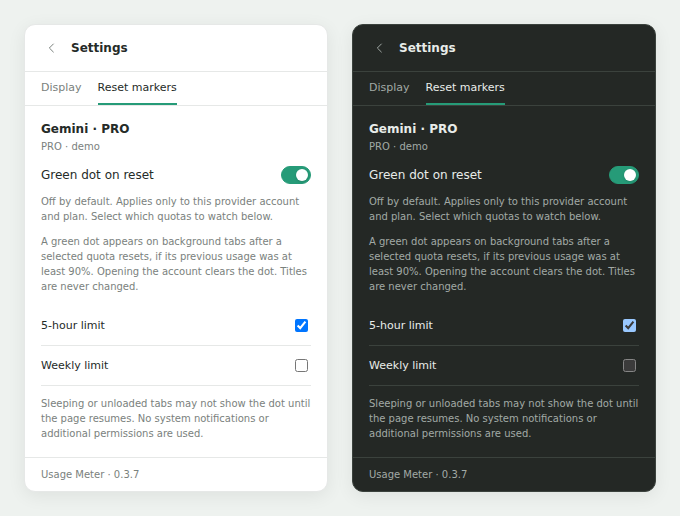
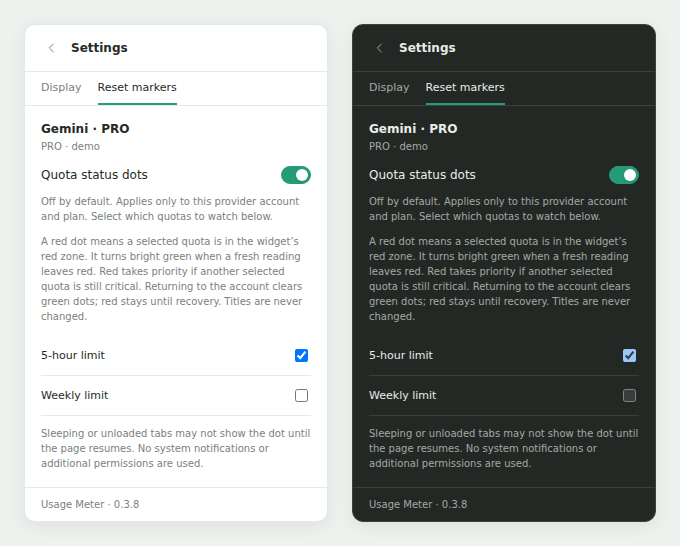
Use widget red-zone transitions for quota status dots in v0.3.8

diff --git a/extension/ui.js b/extension/ui.js
@@ -141,11 +141,11 @@
     const context=el('div','marker-context',provider?provider.name+(view.snapshot?.plan?' · '+C.planLabel(view.snapshot.plan):''):'No active provider');
     context.append(el('div','setting-note',view.snapshot?.label||'Open a supported chat tab and verify its account.'));body.append(context);
     const choices=config?.quotas||[],available=Boolean(config?.key&&choices.some(q=>q.eligible));
-    const label=el('label','setting');label.append(el('span','','Green dot on reset'));
-    const toggle=el('input','switch');toggle.type='checkbox';toggle.dataset.action='toggle-reset-markers';toggle.setAttribute('aria-label','Green dot on reset');toggle.checked=config?.enabled===true;toggle.disabled=!available;label.append(toggle);body.append(label);
+    const label=el('label','setting');label.append(el('span','','Quota status dots'));
+    const toggle=el('input','switch');toggle.type='checkbox';toggle.dataset.action='toggle-reset-markers';toggle.setAttribute('aria-label','Quota status dots');toggle.checked=config?.enabled===true;toggle.disabled=!available;label.append(toggle);body.append(label);
     body.append(el('div','setting-note','Off by default. Applies only to this provider account and plan. Select which quotas to watch below.'));
-    body.append(el('div','setting-note','A green dot appears on background tabs after a selected quota resets, if its previous usage was at least 90%. Opening the account clears the dot. Titles are never changed.'));
-    if(!choices.length)body.append(el('div','status','No quotas with a verifiable reset are currently reported for this account. Refresh usage or check another plan.'));
+    body.append(el('div','setting-note','A red dot means a selected quota is in the widget’s red zone. It turns bright green when a fresh reading leaves red. Red takes priority if another selected quota is still critical. Returning to the account clears green dots; red stays until recovery. Titles are never changed.'));
+    if(!choices.length)body.append(el('div','status','No numeric quotas are currently reported for this account. Refresh usage or wait for the next provider reading.'));
     const list=el('div','quota-list');
     for(const q of choices){
       const row=el('div','quota-choice');row.dataset.key=q.id;const choice=el('label','setting');choice.append(el('span','',q.label));

diff --git a/extension/favicon.js b/extension/favicon.js
@@ -3,7 +3,7 @@
   const version=LimitsCore.VERSION;
   if(globalThis.UsageFavicon?.version===version)return;
   function create(){
-    let enabled=false,disposed=false,generation=0,marked=null,own=null,queued=false;
+    let enabled=null,disposed=false,generation=0,marked=null,own=null,queued=false;
     const originals=new Map();
     const icon=n=>n instanceof HTMLLinkElement&&/\bicon\b/i.test(n.rel)&&!/apple-touch/i.test(n.rel);
     const attrs=n=>Object.fromEntries(['href','type','sizes'].map(k=>[k,n.getAttribute(k)]));
@@ -58,9 +58,12 @@
         });
         ctx.drawImage(img,0,0,32,32);canvas.toDataURL('image/png');
       }catch{canvas.width=32;}
-      // A small, white-bordered green dot remains visible on both page themes.
-      ctx.beginPath();ctx.arc(24,24,7,0,Math.PI*2);ctx.fillStyle='#fff';ctx.fill();
-      ctx.beginPath();ctx.arc(24,24,5.5,0,Math.PI*2);ctx.fillStyle='#22a66a';ctx.fill();
+      // Saturated centre, bright rim and soft glow stay visible at tab-icon size.
+      const colour=enabled==='red'?'#ff1744':'#00f060';
+      ctx.shadowColor=colour;ctx.shadowBlur=3;
+      ctx.beginPath();ctx.arc(23.5,23.5,7.5,0,Math.PI*2);ctx.fillStyle='#fff';ctx.fill();
+      ctx.shadowBlur=0;
+      ctx.beginPath();ctx.arc(23.5,23.5,6,0,Math.PI*2);ctx.fillStyle=colour;ctx.fill();
       if(current!==generation||!enabled||disposed)return;
       const previous=marked;marked=canvas.toDataURL('image/png');
       // Existing marked hrefs still refer to the previous generated image.
@@ -69,7 +72,7 @@
       paint();
     }
     return {
-      set(value){if(disposed||enabled===value)return;enabled=value;++generation;if(enabled){watch();void build();}else restore();},
+      set(value){const colour=value==='red'||value==='green'?value:null;if(disposed||enabled===colour)return;enabled=colour;++generation;if(enabled){watch();void build();}else restore();},
       destroy(){enabled=false;disposed=true;++generation;restore();},
     };
   }

diff --git a/extension/background.js b/extension/background.js
@@ -22,7 +22,7 @@ function tabView(id){
   const scope=tab.context?.scope,view=tab.error?{snapshot:null,checking:false,error:tab.error}:views[scope]||{snapshot:null,checking:true};
   const key=view.snapshot?accountMarkerKey(scope):null;
   return {provider:tab.provider,scope,...view,dark:tab.dark,
-    resetMarkers:markers.describe(key,view,Date.now()),resetMarker:Boolean(key&&markers.pending(key,Date.now()))};
+    resetMarkers:markers.describe(key,view),resetMarker:key?markers.color(key):null};
 }
 function paintTab(id){
   // Per-tab action state prevents a slow response from repainting another site.
@@ -49,9 +49,9 @@ function paintTab(id){
   });return badgeWrites;
 }
 async function publish(){
-  const at=Date.now(),visible=browserFocused?accountMarkerKey(tabs.get(activeId)?.context?.scope):null;
+  const at=Date.now();
   for(const [scope,view] of Object.entries(views)){
-    const key=accountMarkerKey(scope);if(key)markers.update(key,view,at,key===visible);
+    const key=accountMarkerKey(scope);if(key)markers.update(key,view,at);
   }
   const next=markers.nextReset(at),alarm=await chrome.alarms.get('quota-reset');
   if(next&&(!alarm||Math.abs(alarm.scheduledTime-(next+1000))>1000))await chrome.alarms.create('quota-reset',{when:next+1000});
@@ -148,6 +148,8 @@ async function captureClaude(id){
 async function selectActive(){
   const [tab]=await chrome.tabs.query({active:true,lastFocusedWindow:true});activeId=tab?.id??null;
   if(tab)await bindTab(tab);else await publish();
+  const key=browserFocused&&accountMarkerKey(tabs.get(activeId)?.context?.scope);
+  if(key){markers.acknowledge(key);await publish();}
   if(tabs.get(activeId)?.context)void refreshTab(activeId).catch(()=>{});
 }
 async function injectOpenTabs(){

diff --git a/extension/content.js b/extension/content.js
@@ -64,7 +64,7 @@
   }
   function render(){
     if(disposed||dragging)return;
-    favicon?.set(supported()&&view.resetMarker===true);
+    favicon?.set(supported()?view.resetMarker:null);
     if(!settings.widget||!supported()){host?.remove();host=null;shadow=null;return;}
     if(!host||!host.isConnected) {
       host=document.createElement('div');host.id='usage-meter-widget';
@@ -108,7 +108,7 @@
     lastHeartbeat=Date.now();window.postMessage({usageMeter:'claude-observer-alive'},location.origin);
   }
   function onVisible(){if(document.visibilityState==='visible'){
-    if(document.hasFocus()&&view.resetMarker)void send({type:'marker-seen'});
+    if(document.hasFocus()&&view.resetMarker==='green')void send({type:'marker-seen'});
     keepObserver();
     void context();void theme();
     if(Date.now()-lastWake>60000){lastWake=Date.now();void send({type:'refresh'});}

diff --git a/extension/shared.js b/extension/shared.js
@@ -1,6 +1,6 @@
 /* Original implementation. This file is shared by the worker, popup and page. */
 (() => {
-  const VERSION = '0.3.7';
+  const VERSION = '0.3.8';
   const finite = x => typeof x === 'number' && Number.isFinite(x);
   const clamp = n => Math.min(100, Math.max(0, n));
   const plans = {team:'BUSINESS',business:'BUSINESS',free:'FREE',plus:'PLUS',pro:'PRO',go:'GO',enterprise:'ENTERPRISE',edu:'EDU'};

diff --git a/tools/package.py b/tools/package.py
@@ -9,12 +9,13 @@ import zipfile
 ROOT = Path(__file__).resolve().parents[1]
 STORE_035 = '8c053b1a8aad91b4f7df0fe98cb92fc619d4e7d2'
 STORE_036 = '809dec7735a80c6df62395a26ceae3058fdeef16'
+STORE_037 = '07248a9269b6b40cfb293c2100251ac4aa08d34f'
 p = argparse.ArgumentParser()
-p.add_argument('--version', choices=['0.3.5', '0.3.6', '0.3.7'], default='0.3.7')
+p.add_argument('--version', choices=['0.3.5', '0.3.6', '0.3.7', '0.3.8'], default='0.3.8')
 p.add_argument('--output', type=Path)
 args = p.parse_args()
-if args.version in ['0.3.5', '0.3.6']:
-    revision = STORE_035 if args.version == '0.3.5' else STORE_036
+if args.version != '0.3.8':
+    revision = {'0.3.5': STORE_035, '0.3.6': STORE_036, '0.3.7': STORE_037}[args.version]
     paths = subprocess.check_output(['git', 'ls-tree', '-r', '--name-only', revision, 'extension/'], cwd=ROOT, text=True).splitlines()
     files = {name.removeprefix('extension/'): subprocess.check_output(['git', 'show', f'{revision}:{name}'], cwd=ROOT) for name in paths}
 else:
@@ -28,7 +29,7 @@ output = args.output or ROOT / 'artifacts' / f'usage-meter-{args.version}.zip'
 output.parent.mkdir(parents=True, exist_ok=True)
 with zipfile.ZipFile(output, 'w', zipfile.ZIP_DEFLATED) as archive:
     for name, content in sorted(files.items()):
-        item = zipfile.ZipInfo(name, date_time=(2026, 10, 29 if args.version == '0.3.7' else 21, 0, 0, 0))
+        item = zipfile.ZipInfo(name, date_time=(2026, 11, 1, 0, 0, 0) if args.version == '0.3.8' else (2026, 10, 29 if args.version == '0.3.7' else 21, 0, 0, 0))
         item.compress_type = zipfile.ZIP_DEFLATED
         item.external_attr = 0o100644 << 16
         archive.writestr(item, content)

diff --git a/README.md b/README.md
@@ -22,7 +22,7 @@ Light and dark views of the popup and the widget's three display levels. Both im
 - ChatGPT feature counts, reset credits and available model information when returned by the service.
 - Separate caches for providers and verified account contexts. Multiple tabs for the same context share refresh work.
 - Manual refresh, automatic polling, request backoff and diagnostics without session credentials or chat content.
-- Optional green favicon dots after confirmed resets of selected quota windows. Disabled by default; configured from the active provider account's settings.
+- Optional bright favicon dots: red while a selected quota is critical, green after a fresh reading confirms recovery. Supports percentage windows and ChatGPT feature counts. Disabled by default; configured from the active provider account's settings.
 
 ## Install
 
@@ -52,15 +52,17 @@ Integer warning thresholds are rounded down in used units. With a reference of 5
 
 Version 0.3.6 adds Grok Free counts and experimental paid-pool support. The 0.3.5 store package remains separate and has no Grok permission.
 
-### Reset markers (0.3.7)
+### Quota status dots (0.3.8)
 
-Open a supported provider tab, then choose **Settings → Reset markers**. Enable **Green dot on reset** and select the quota windows to watch. Settings are separate for each verified provider account and plan; five-hour, weekly and other reported windows can be selected independently. Nothing is enabled automatically.
+Open a supported provider tab, then choose **Settings → Reset markers**. Enable **Quota status dots** and select the quotas to watch. Settings are separate for each verified provider account and plan. Percentage windows and ChatGPT feature counts can be selected independently. Nothing is enabled automatically; existing 0.3.7 selections are retained when updating.
 
-![Reset marker settings in light and dark themes, with example account data](docs/screenshots/reset-marker-settings.png)
+![Quota status settings in light and dark themes, with example account data](docs/screenshots/reset-marker-settings.png)
 
-A window is watched after a fresh reading reaches **90% used**. A green dot appears on the background account's favicons only after a fresh provider response confirms a later window and usage below 90%, after the previous deadline. Passing a countdown, an error, a missing window or a stale zero never creates a dot. Viewing any tab for the account acknowledges its dots. The page title and toolbar percentages are unchanged. Events and acknowledgement survive service-worker restarts.
+The dot uses the **same red-zone rules as the widget**: at least 90% used for percentage windows, or the existing count-colour reference for feature limits. A red reading arms observation and shows a bright red dot. A newer successful reading outside red changes it to bright green, even if the recovery is partial, the reset date has not changed or no reset timestamp is provided. A healthy initial reading does not create a green dot. If any other selected quota is still red, red takes priority.
 
-Claude chat-event-only readings, Gemini DOM estimates, Grok Free's missing reset timestamp and ChatGPT count-only feature estimates cannot confirm a background reset. Their quota rows are disabled with an explanation. Eligibility follows the actual reported data, not an assumed plan name. Frozen or discarded tabs may delay favicon changes until their page resumes; their state remains local. No system notifications or new permissions are used.
+Background and foreground refreshes both detect recovery. Returning to any tab for the account acknowledges its green dots; a recovery observed while you are already viewing the account stays green until the next return. Red dots remain until a fresh reading confirms recovery. Errors, missing quotas, stale readings and the passage of a reset deadline do not count as recovery. Usage and feature responses are checked independently, so a failure of one does not block the other. State and acknowledgement survive service-worker restarts.
+
+All reported numeric quotas are eligible, including count-only features, windows without reset dates and Claude chat-event readings. Claude Free may update only after a normal chat reply; the extension does not send prompts to obtain a reading. Provider reset dates only schedule an extra refresh; they never change the dot on their own. Frozen or discarded tabs may delay favicon changes until their page resumes. No page titles, toolbar percentages, permissions or system notifications are changed.
 
 The extension overlays the current page icon where it can read it. If the icon cannot be read because of cross-origin restrictions, the marker falls back to a dot on a transparent favicon. A provider's CSP can prevent custom icons. Provider icon changes are observed and the underlying icon is restored when the marker is cleared or the content controller is removed.
 
@@ -135,4 +137,4 @@ Before sharing a problem report, use **Settings → Copy diagnostics** and descr
 The implementation is independent. Grok endpoint and field mappings were investigated using Joshua Wang’s Grok Usage Watch source and changelog; its source has not been copied into this package. Open-source protocol investigations, including CodexBar's Gemini web adapter and Claude quota-event trackers, informed the provider adapters. The widget's visual references were the usage trackers discussed during development; their donation controls and theme presets are not included.
 
 
-Create an upload-ready ZIP (manifest at the archive root) with `python3 tools/package.py`. Use `--version 0.3.5` or `--version 0.3.6` for the preserved earlier builds. The current package defaults to 0.3.7.
+Create an upload-ready ZIP (manifest at the archive root) with `python3 tools/package.py`. Use `--version 0.3.5`, `--version 0.3.6` or `--version 0.3.7` for the preserved earlier builds. The current package defaults to 0.3.8.

diff --git a/PRIVACY.md b/PRIVACY.md
@@ -1,6 +1,6 @@
-# Usage Meter privacy policy — version 0.3.7
+# Usage Meter privacy policy — version 0.3.8
 
-Effective date: 29 October 2026. Maintainer: Kulver-stukas, the publisher of the Usage Meter project.
+Effective date: 1 November 2026. Maintainer: Kulver-stukas, the publisher of the Usage Meter project.
 
 Usage Meter displays quotas from your existing signed-in ChatGPT, Claude, Gemini and Grok web sessions. The extension has no developer-operated account service, analytics endpoint or advertising service. The maintainer does not automatically receive your usage readings, identifiers, credentials, conversations or browsing activity.
 
@@ -18,7 +18,7 @@ The extension does not request health records, precise location, camera, microph
 
 Chrome extension local storage contains preferences, normalized quota readings, account fingerprints, public request descriptors, local count references and retry state. Session storage also holds tab/context bindings used after service-worker restarts; these can include current provider organization identifiers. Old inactive contexts are pruned when the retained context limit is exceeded. Otherwise cached data can remain until you clear the extension's data or uninstall it. Local storage is browser-managed and is not claimed to be separately encrypted by this extension. Chat messages and raw authentication credentials are not intentionally persisted.
 
-Optional reset markers also store the selected quota IDs and enablement per provider account and plan, the observed critical-window deadline and reading time, and pending reset/acknowledgement state. These records remain local. The feature can read a supported page's existing favicon to overlay a green dot and temporarily replace its icon; it does not modify or retain the page title. Loading an icon may request the icon URL already supplied by the page. No system notification permission is requested.
+Optional reset markers also store the selected quota IDs and enablement per provider account and plan, the observed critical/recovered status, reported reset date and reading time, and pending recovery/acknowledgement state. These records remain local. The feature can read a supported page's existing favicon to overlay a red or green dot and temporarily replace its icon; it does not modify or retain the page title. Loading an icon may request the icon URL already supplied by the page. No system notification permission is requested.
 
 ## Requests and sharing
 
@@ -32,7 +32,7 @@ Copy diagnostics is a user-initiated action. It includes extension/provider vers
 
 You can hide the widget, restrict or revoke site access through Chrome, disable the extension, clear its data, or uninstall it. Removing site access can prevent quota retrieval. Uninstalling removes the extension's local and session data. Logging out of a provider changes its authentication context but is not a request to erase every previously cached quota snapshot.
 
-Reset markers are disabled by default. You can enable or disable them and choose quota windows in Settings → Reset markers while the relevant account is active. Disabling the feature clears its observation and pending event state for that account and plan.
+Reset markers are disabled by default. You can enable or disable them and choose percentage windows or feature counts in Settings → Reset markers while the relevant account is active. Disabling the feature clears its observation and pending event state for that account and plan.
 
 ## Changes and contact
 

diff --git a/README-RU.md b/README-RU.md
@@ -1,4 +1,4 @@
-# Usage Meter — ChatGPT, Claude, Gemini, Grok · 0.3.7
+# Usage Meter — ChatGPT, Claude, Gemini, Grok · 0.3.8
 
 Тестовое расширение для Chrome/Chromium 120+. Использует текущие сессии сайтов; отдельные приложения, API-ключи и CLI не нужны. Grok включён; платная ветка экспериментальная. Perplexity не включён.
 
@@ -9,6 +9,15 @@
 ![Usage Meter — светлая тема](docs/screenshots/usage-meter-light.png)
 
 ![Usage Meter — тёмная тема](docs/screenshots/usage-meter-dark.png)
+
+## Изменения 0.3.8
+
+- Индикатор favicon использует те же правила красной зоны, что и виджет: ярко-красная точка при критическом расходе выбранной квоты, ярко-зелёная после свежего показания вне красной зоны. Дата сброса не требуется. Если другая выбранная квота ещё красная, красный цвет имеет приоритет.
+- Добавлены количественные Feature limits. Используется существующий локальный ориентир для цвета счётчика, без выдуманного процента или общей квоты. Нулевой остаток всегда красный; при ориентире 5 переход с 1 на 2 уже означает выход из красного.
+- Восстановление определяется при фоновой и обычной проверке. Ошибки, пропавшие квоты, старые показания и истечение таймера не считаются восстановлением. Ошибка основного usage не блокирует успешное обновление Feature limits и наоборот.
+- Доступны числовые показания без даты сброса и события Claude Free. Для последнего обновление по-прежнему требует обычного ответа в чате: расширение само сообщения не отправляет.
+- Возврат к аккаунту убирает зелёные точки на его вкладках. Красные остаются до восстановления. Если восстановление обнаружено в уже открытом аккаунте, зелёная точка сохраняется до следующего возврата. Настройки 0.3.7 сохранены; новые квоты нужно выбрать самостоятельно. По умолчанию функция выключена, новых разрешений нет.
+- Сборка по умолчанию — 0.3.8; пакеты 0.3.5–0.3.7 воспроизводятся из сохранённых ревизий.
 
 ## Изменения 0.3.7
 
